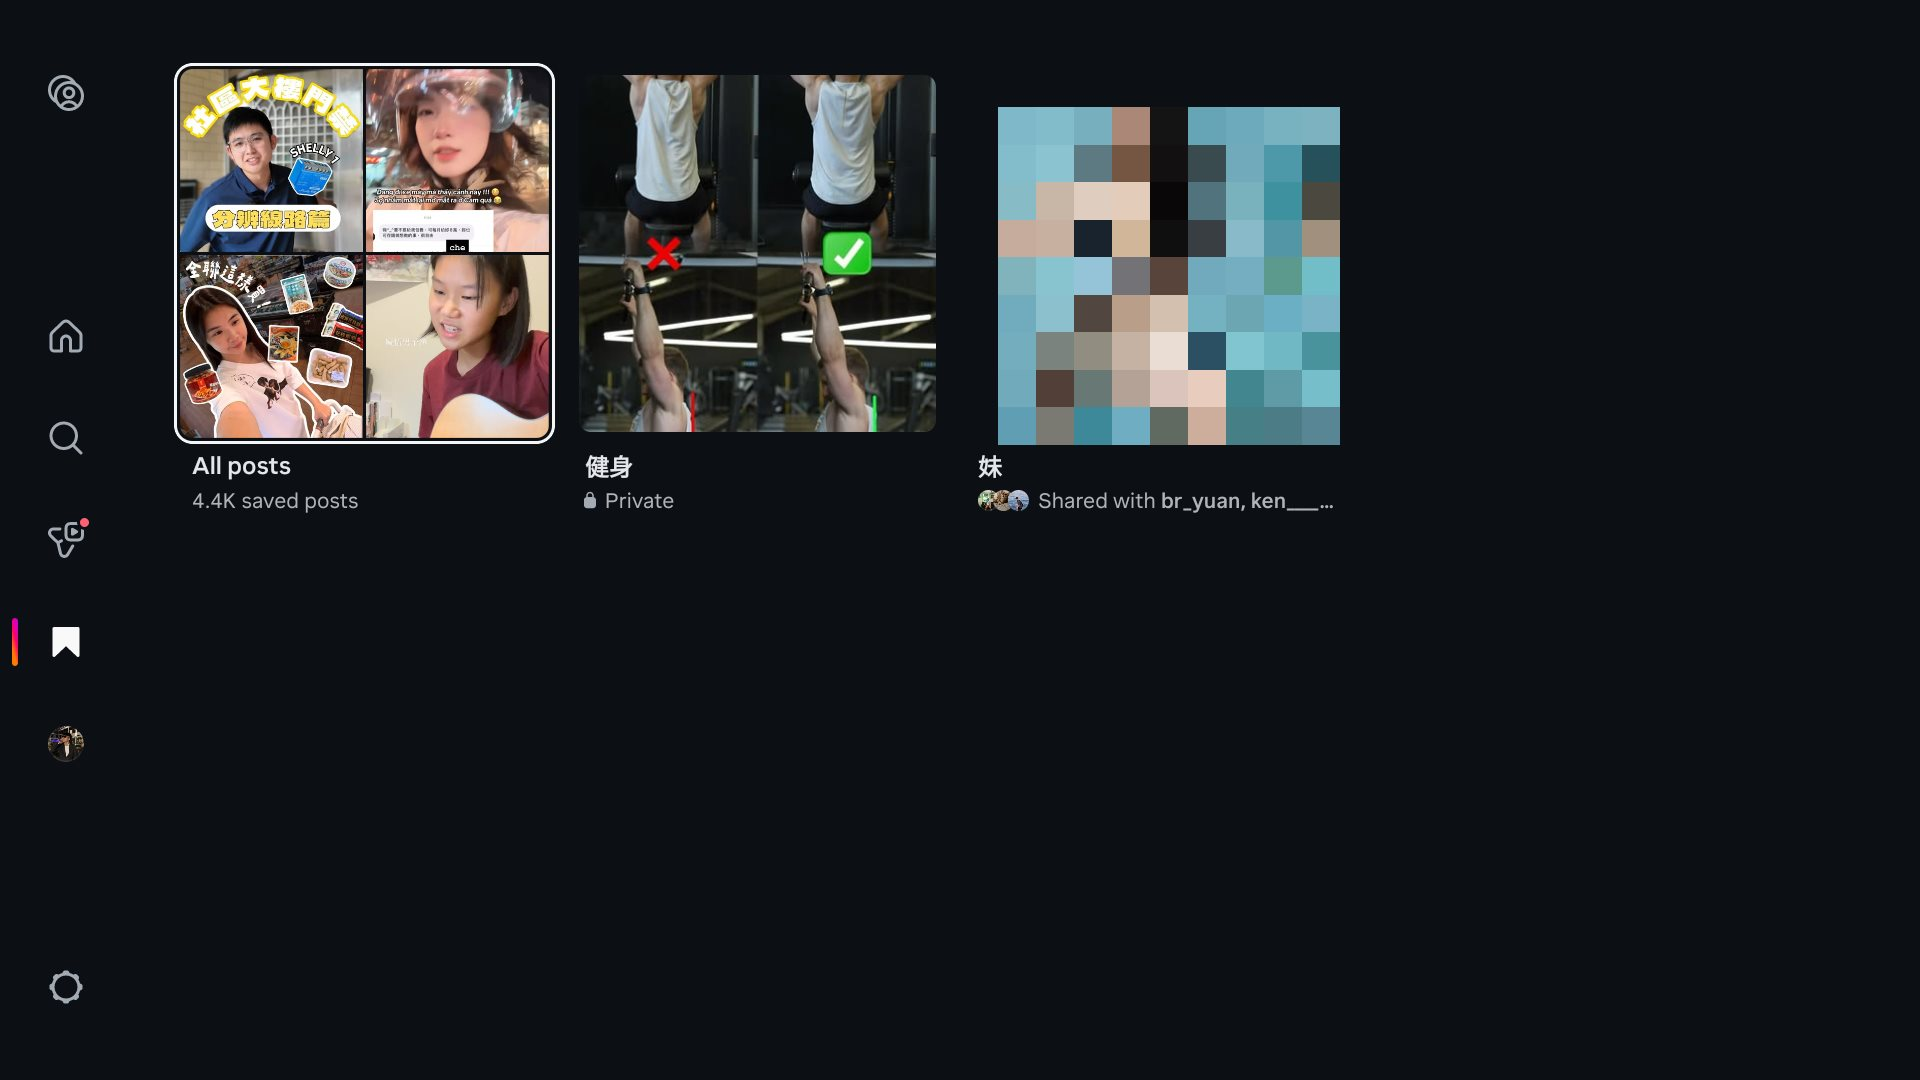
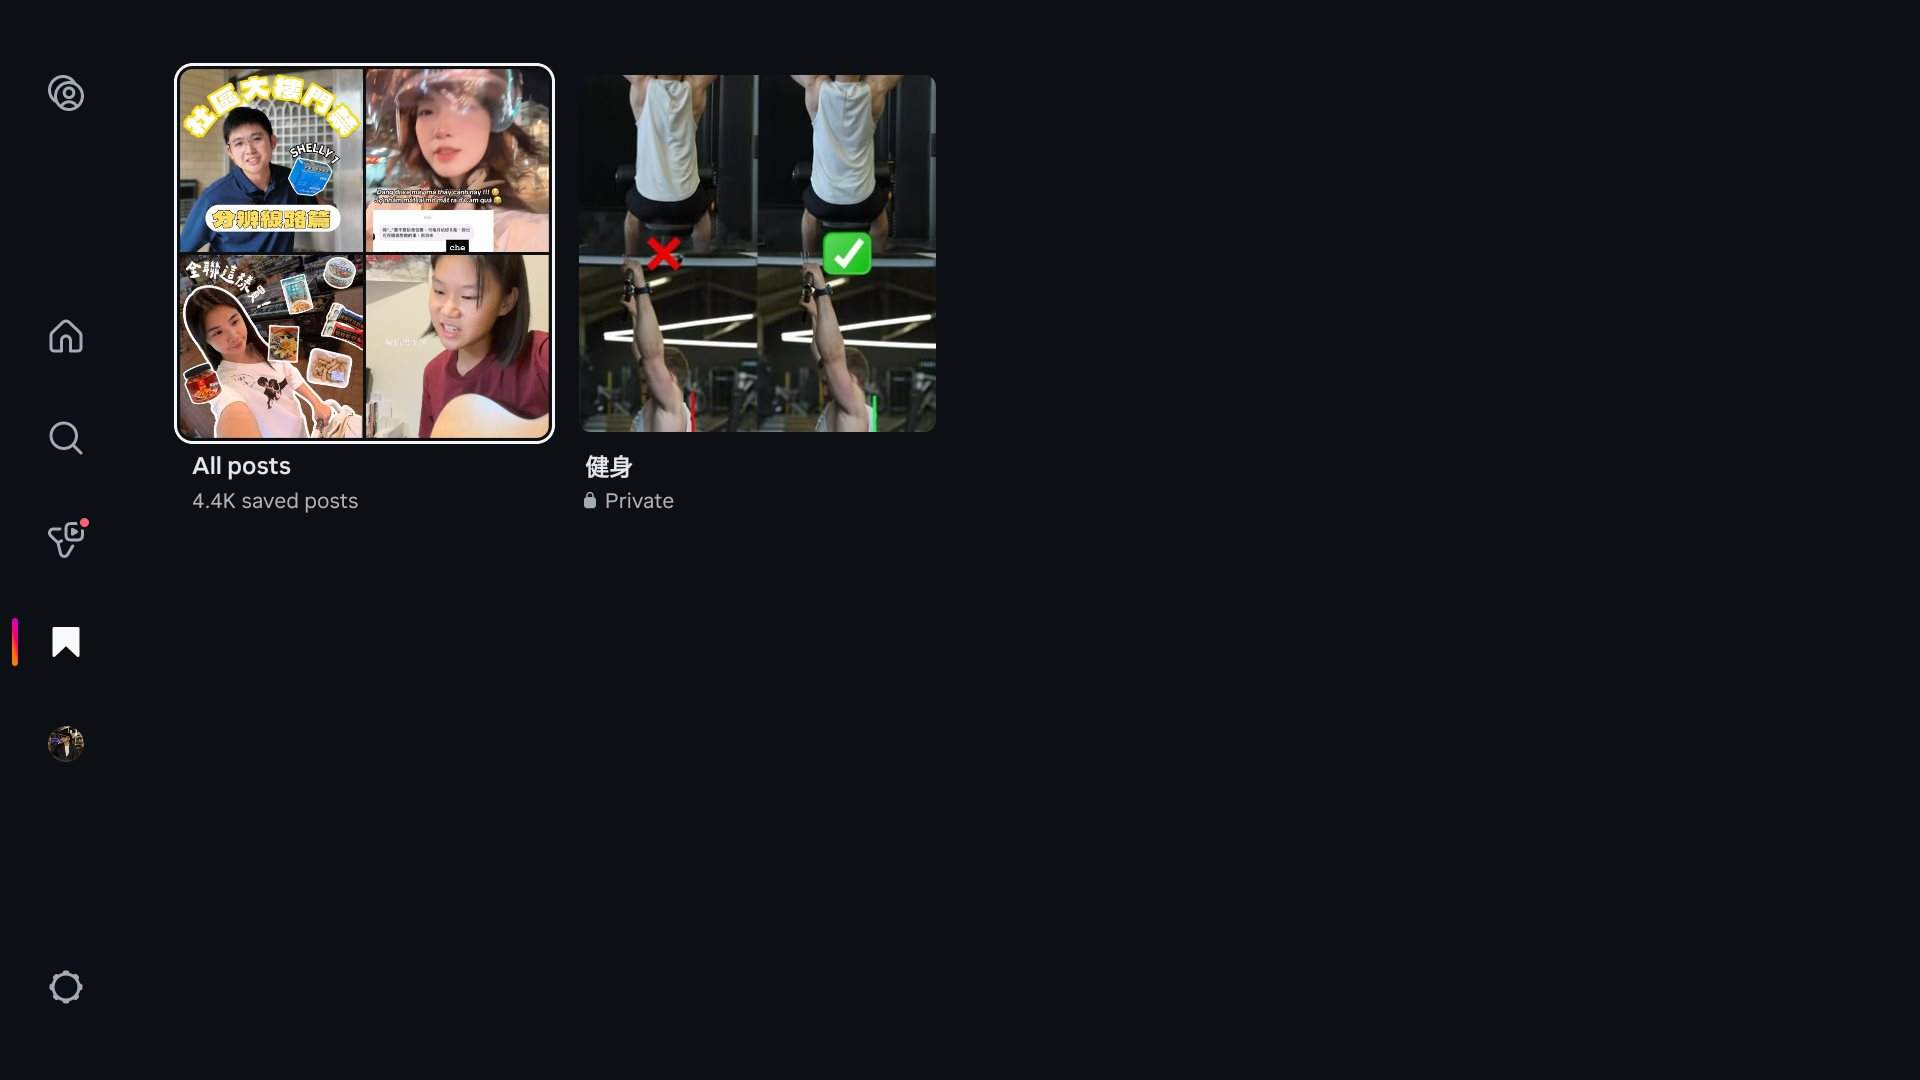
Retake the Saved screenshot without the removed collection
Fresh capture shows only All posts and the private collection;
captions adjusted to match the visible content.

Changed region(s): [[0.5, 0.0917, 0.7188, 0.4889]]

diff --git a/ig-tv-app.html b/ig-tv-app.html
@@ -75,8 +75,8 @@
   <figure><img src="img/c5.jpg" alt="私訊影片播放頁"><figcaption>播放頁:「From your messages」顯示傳送者與訊息,表情列可直接回應到聊天室。</figcaption></figure>
 
   <h2>Saved:珍藏分類都同步過來了</h2>
-  <p>Saved 分頁就是手機上的「我的珍藏」:全部儲存的貼文、自訂分類(私人分類會標鎖頭)、甚至多人協作的共同珍藏都在,跟誰共用也寫得清清楚楚。睡前在手機上收藏、週末在電視上配飯看,這個動線意外地順。</p>
-  <figure><img src="img/c6.jpg" alt="Saved 珍藏"><figcaption>Saved:所有珍藏、私人分類、多人共同珍藏,完整同步。</figcaption></figure>
+  <p>Saved 分頁就是手機上的「我的珍藏」:全部儲存的貼文和自訂分類都同步過來,私人分類會標上鎖頭;多人協作的共同珍藏也會出現,連跟誰共用都寫得清清楚楚。睡前在手機上收藏、週末在電視上配飯看,這個動線意外地順。</p>
+  <figure><img src="img/c6.jpg" alt="Saved 珍藏"><figcaption>Saved:所有珍藏與自訂分類完整同步,私人分類標示鎖頭。</figcaption></figure>
 
   <h2>Profile 與 Settings:看得到,但改不了太多</h2>
   <p>Profile 顯示大頭貼、追蹤數字和限時動態精選,但貼文區寫著「No posts yet — Share your first post on the Instagram mobile app」——<strong>電視版是純觀看端,不能發文</strong>。Settings 則有帳號安全、內容偏好、Gallery、說明(help.instagram.com/tv)、回報問題和登出;導覽列最上面的 Switch profile 可以多帳號切換,適合全家共用一台電視。</p>
@@ -115,8 +115,8 @@
   <figure><img src="img/c5.jpg" alt="Shared reel player"><figcaption>The player: "From your messages" with sender and note; the emoji bar replies into the chat.</figcaption></figure>
 
   <h2>Saved: your collections came along</h2>
-  <p>Saved is your bookmarks from the phone, intact: all saved posts, custom collections (private ones marked with a lock), even collaborative collections shared with friends, with the collaborators listed. Save on the phone at midnight, watch on the TV over lunch — a surprisingly natural loop.</p>
-  <figure><img src="img/c6.jpg" alt="Saved collections"><figcaption>Saved: all posts, private collections, and shared collaborative collections, fully synced.</figcaption></figure>
+  <p>Saved is your bookmarks from the phone, intact: all saved posts and custom collections sync over, with private ones marked by a lock — and collaborative collections shared with friends show up too, collaborators listed. Save on the phone at midnight, watch on the TV over lunch — a surprisingly natural loop.</p>
+  <figure><img src="img/c6.jpg" alt="Saved collections"><figcaption>Saved: all posts and custom collections, fully synced; private ones carry a lock.</figcaption></figure>
 
   <h2>Profile and Settings: visible, mostly read-only</h2>
   <p>Profile shows your avatar, follower counts, and story highlights, but the post grid says "No posts yet — share your first post on the Instagram mobile app" — <strong>the TV app is strictly a viewer; you can't post</strong>. Settings covers profile security, content preferences, Gallery, help (help.instagram.com/tv), reporting a problem, and logging out. Switch profile at the top of the rail handles multiple accounts — handy for a shared living-room TV.</p>

diff --git a/medium/ig-tv-app-zh.html b/medium/ig-tv-app-zh.html
@@ -34,8 +34,8 @@
 <figure><img src="https://quenhenglee.github.io/img/c5.jpg" alt="私訊影片播放頁"><figcaption>播放頁:「From your messages」顯示傳送者與訊息,表情列可直接回應到聊天室。</figcaption></figure>
 
 <h2>Saved:珍藏分類都同步過來了</h2>
-<p>Saved 分頁就是手機上的「我的珍藏」:全部儲存的貼文、自訂分類(私人分類會標鎖頭)、甚至多人協作的共同珍藏都在,跟誰共用也寫得清清楚楚。睡前在手機上收藏、週末在電視上配飯看,這個動線意外地順。</p>
-<figure><img src="https://quenhenglee.github.io/img/c6.jpg" alt="Saved 珍藏"><figcaption>Saved:所有珍藏、私人分類、多人共同珍藏,完整同步。</figcaption></figure>
+<p>Saved 分頁就是手機上的「我的珍藏」:全部儲存的貼文和自訂分類都同步過來,私人分類會標上鎖頭;多人協作的共同珍藏也會出現,連跟誰共用都寫得清清楚楚。睡前在手機上收藏、週末在電視上配飯看,這個動線意外地順。</p>
+<figure><img src="https://quenhenglee.github.io/img/c6.jpg" alt="Saved 珍藏"><figcaption>Saved:所有珍藏與自訂分類完整同步,私人分類標示鎖頭。</figcaption></figure>
 
 <h2>Profile 與 Settings:看得到,但改不了太多</h2>
 <p>Profile 顯示大頭貼、追蹤數字和限時動態精選,但貼文區寫著「No posts yet — Share your first post on the Instagram mobile app」——<strong>電視版是純觀看端,不能發文</strong>。Settings 則有帳號安全、內容偏好、Gallery、說明(help.instagram.com/tv)、回報問題和登出;導覽列最上面的 Switch profile 可以多帳號切換,適合全家共用一台電視。</p>
